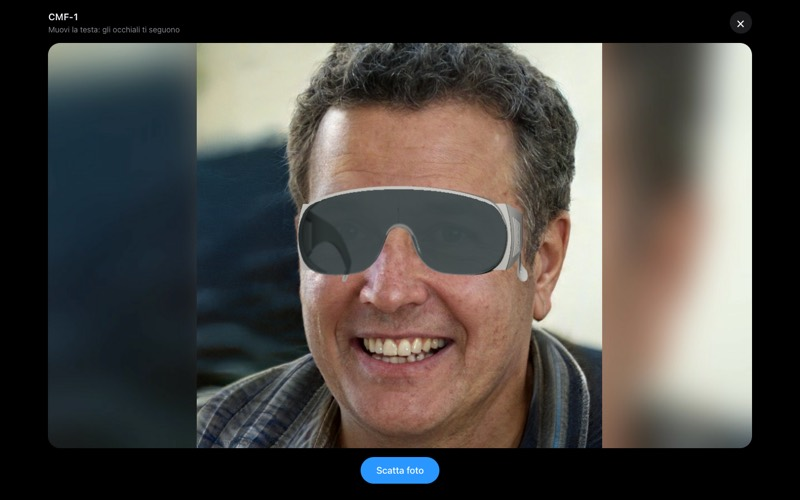
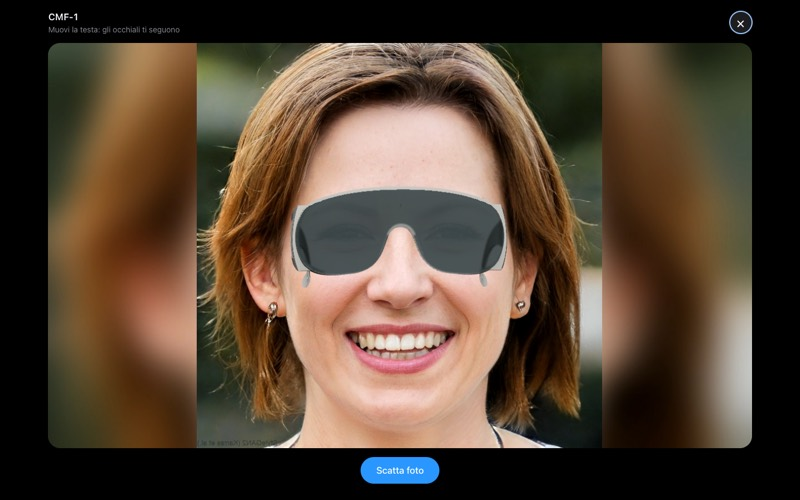
Aggiungi Mongiusti e Saravia Ruiz, volti diversi nelle prove virtuali

diff --git a/index.html b/index.html
@@ -59,7 +59,7 @@
       <p class="contacts"><a href="https://www.linkedin.com/in/elenacavallin-designer/" target="_blank" rel="noopener">LinkedIn ↗</a> <a href="mailto:elena.cavallin.ec@gmail.com">elena.cavallin.ec@gmail.com</a></p>
       <p class="lede">Gli occhiali sono stati modellati in 3D nel corso di modellazione. Durante il workshop ogni studente ha realizzato un sito per presentarli. Le immagini mostrano, dove possibile, la prova virtuale degli occhiali su volti generati al computer. In ordine alfabetico per cognome: clicca un'immagine per aprire il sito.</p>
       <div class="meta">
-        <span><b>20</b> / 28 online</span>
+        <span><b>22</b> / 28 online</span>
         <div class="filters" role="group" aria-label="Filtro">
           <button type="button" id="f-all" aria-pressed="true">Tutti</button>
           <button type="button" id="f-on" aria-pressed="false">Solo online</button>
@@ -193,11 +193,12 @@
           <span class="missing">link non ancora inserito</span>
         </article>
       </div>
-      <div class="col-12 col-sm-6 col-lg-4 col-xl-3 todo">
+      <div class="col-12 col-sm-6 col-lg-4 col-xl-3">
         <article class="card-w">
-          <div class="shot"><span class="ph">Sito non ancora pubblicato</span></div>
+          <a class="shot" href="https://violamongiusti05-del.github.io/occhiali-veloci/" target="_blank" rel="noopener" aria-label="Apri il sito di Viola Mongiusti"><img src="thumbs/s18.jpg" alt="Anteprima del sito Occhiali veloci" loading="lazy"></a>
+          <h2 class="proj">Occhiali veloci</h2>
           <p class="name">Viola Mongiusti</p>
-          <span class="missing">link non ancora inserito</span>
+          <a class="url" href="https://violamongiusti05-del.github.io/occhiali-veloci/" target="_blank" rel="noopener">violamongiusti05-del.github.io/occhiali-veloci</a>
         </article>
       </div>
       <div class="col-12 col-sm-6 col-lg-4 col-xl-3">
@@ -239,11 +240,12 @@
           <a class="url" href="https://emilyrambelli-sketch.github.io/occhiali-bubblegum-/" target="_blank" rel="noopener">emilyrambelli-sketch.github.io/occhiali-bubblegum-</a>
         </article>
       </div>
-      <div class="col-12 col-sm-6 col-lg-4 col-xl-3 todo">
+      <div class="col-12 col-sm-6 col-lg-4 col-xl-3">
         <article class="card-w">
-          <div class="shot"><span class="ph">Sito non ancora pubblicato</span></div>
+          <a class="shot" href="https://camilasaravia1234-star.github.io/orizzonte/?v=4" target="_blank" rel="noopener" aria-label="Apri il sito di Camila Saravia Ruiz"><img src="thumbs/s23.jpg" alt="Anteprima del sito Orizzonte" loading="lazy"></a>
+          <h2 class="proj">Orizzonte</h2>
           <p class="name">Camila Saravia Ruiz</p>
-          <span class="missing">link non ancora inserito</span>
+          <a class="url" href="https://camilasaravia1234-star.github.io/orizzonte/?v=4" target="_blank" rel="noopener">camilasaravia1234-star.github.io/orizzonte/?v=4</a>
         </article>
       </div>
       <div class="col-12 col-sm-6 col-lg-4 col-xl-3 todo">
